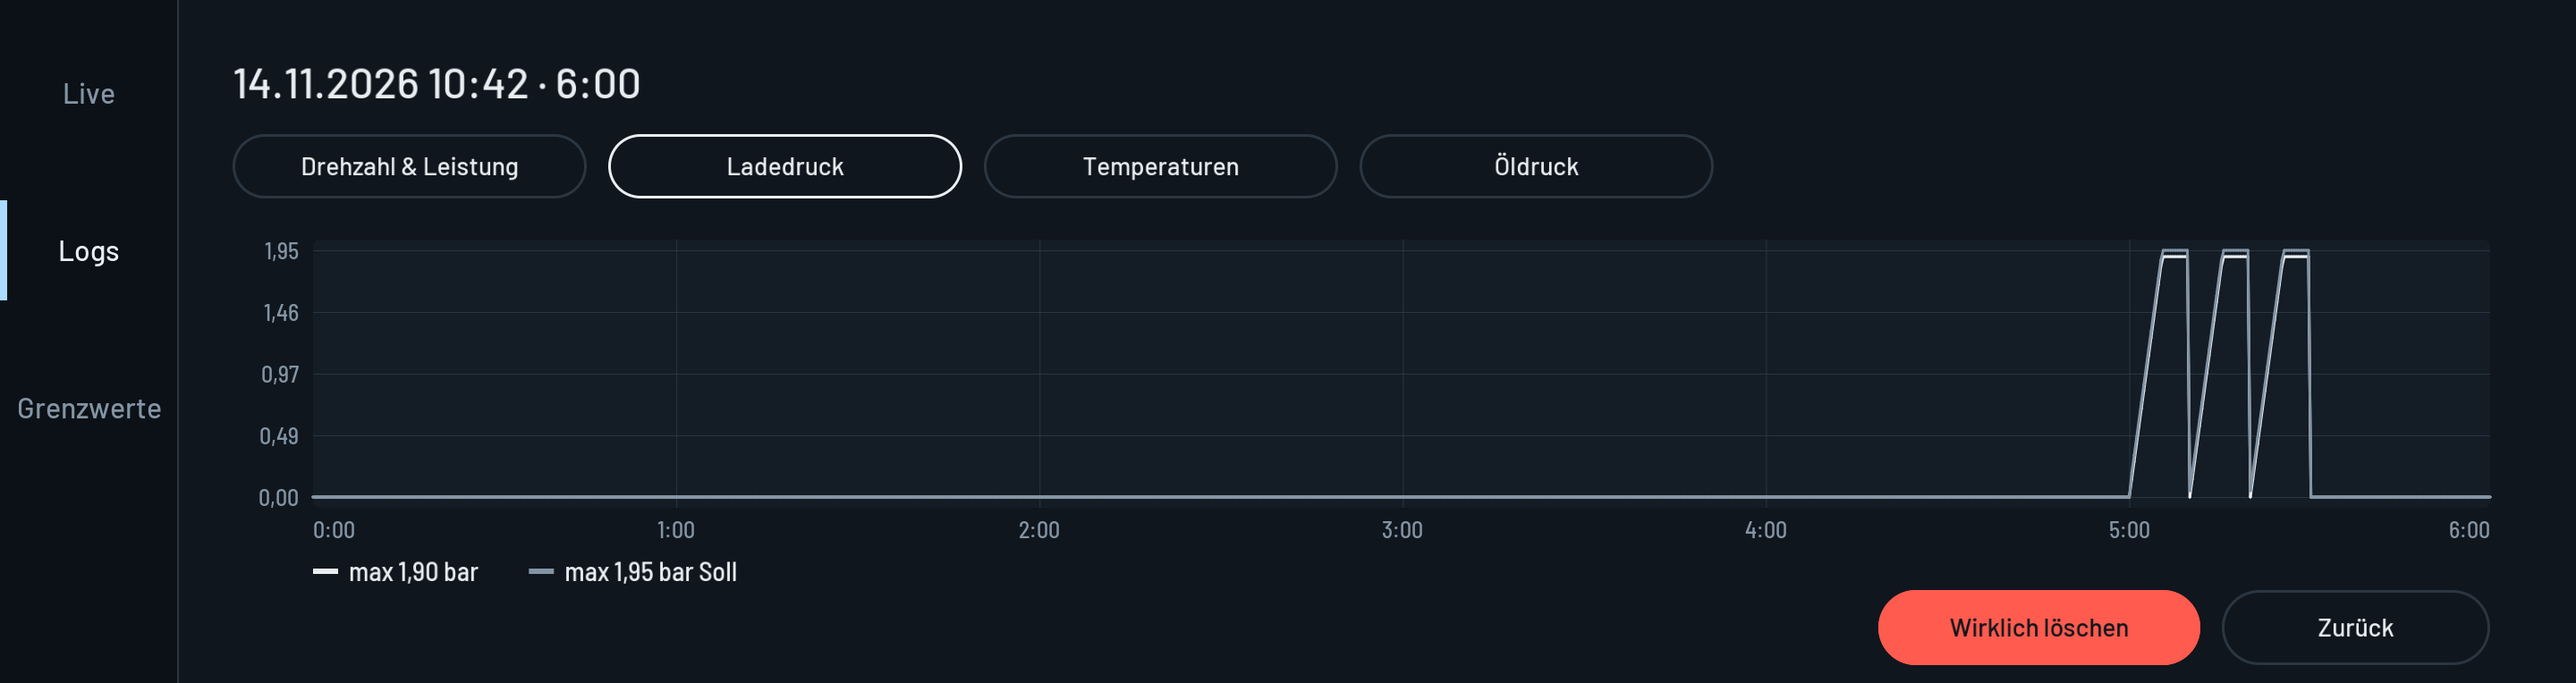
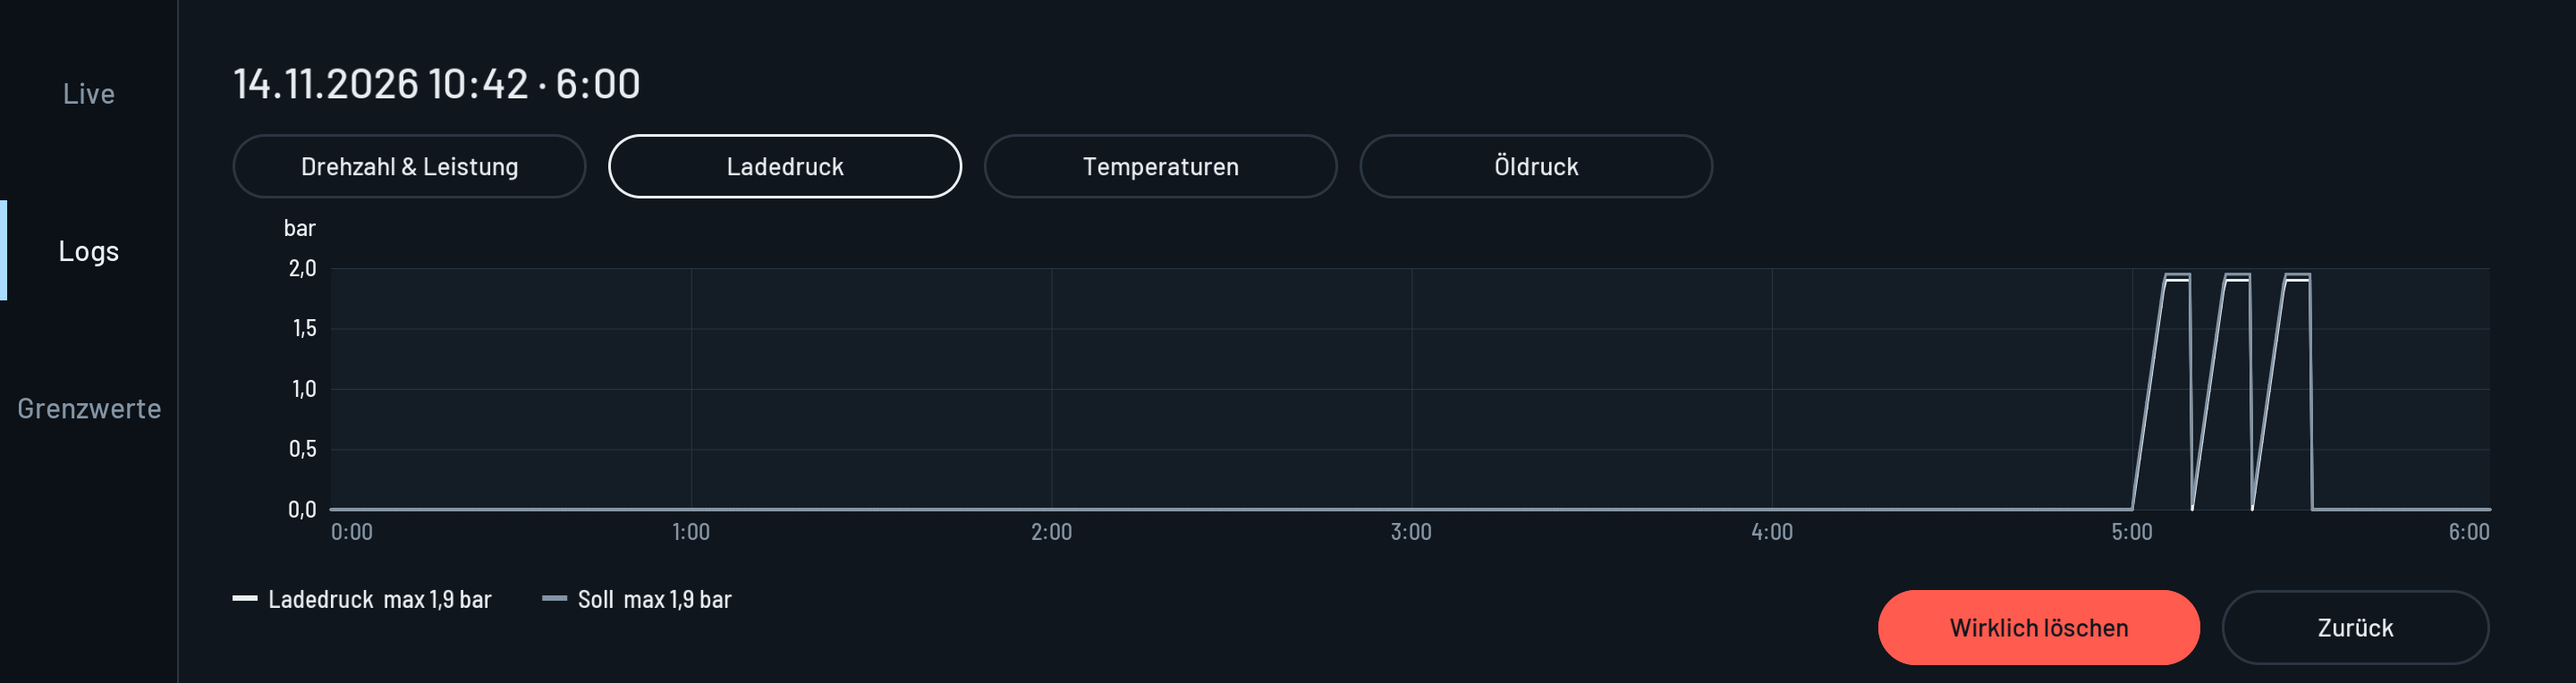
Motordaten 0.5.3: Log-Diagramme mit zwei beschrifteten Achsen
Linke Achse für die erste Kurve, rechte (in ihrer Farbe, mit Einheit)
für eine zweite; runde Skalen (z. B. 0–8.000 U/min, 0–100 PS) mit
Mindestumfang, damit kleine Werte nicht die ganze Höhe füllen. Legende
mit Namen, Spitze und Einheit.

diff --git a/apps/km_motordaten/src/dash.js b/apps/km_motordaten/src/dash.js
@@ -367,14 +367,38 @@ function logsPage(rec, ui, extra) {
     });
 }
 
-/* The curves of a recording's channel group: [field, colour, own scale max or null, decimals, unit]. */
+/* The charts of the log page, by channel group. Each has a left axis and maybe a right one; a curve
+ * belongs to one of them. An axis runs from 0 (or below, for a value that went below) to a round
+ * number at least its floor, so small values stay small instead of filling the chart.
+ *   axes: { left: { unit, d, floor }, right: { ... } }
+ *   curves: [field, colour, axis, legend] */
 const GROUPS = {
-    rpm: [['rpm', C.text, 7700, 0, 'U/min'], ['power', C.cold, null, 0, 'PS']],
-    boost: [['boost', C.text, null, 2, 'bar'], ['boostTarget', C.dim, null, 2, 'bar Soll']],
-    temps: [['oil', C.text, null, 0, '°C Öl'], ['coolant', C.ice, null, 0, '°C Kühlmittel'], ['charge', C.cold, null, 0, '°C Ladeluft'],
-        ['gearbox', C.dim, null, 0, '°C Getriebe']],
-    oil: [['oilPress', C.text, null, 1, 'bar'], ['rpm', C.dim, 7700, 0, 'U/min']]
+    rpm: { axes: { left: { unit: 'U/min', d: 0, floor: 8000, color: C.text }, right: { unit: 'PS', d: 0, floor: 100, color: C.cold } },
+        curves: [['rpm', C.text, 'left', 'Drehzahl'], ['power', C.cold, 'right', 'Leistung']] },
+    boost: { axes: { left: { unit: 'bar', d: 1, floor: 0.5, color: C.text } },
+        curves: [['boost', C.text, 'left', 'Ladedruck'], ['boostTarget', C.dim, 'left', 'Soll']] },
+    temps: { axes: { left: { unit: '°C', d: 0, floor: 100, color: C.text } },
+        curves: [['oil', C.text, 'left', 'Öl'], ['coolant', C.ice, 'left', 'Kühlmittel'], ['charge', C.cold, 'left', 'Ladeluft'],
+            ['gearbox', C.dim, 'left', 'Getriebe']] },
+    oil: { axes: { left: { unit: 'bar', d: 1, floor: 2, color: C.text }, right: { unit: 'U/min', d: 0, floor: 8000, color: C.dim } },
+        curves: [['oilPress', C.text, 'left', 'Öldruck'], ['rpm', C.dim, 'right', 'Drehzahl']] }
 };
+
+/* The smallest round number (1, 1.5, 2, 2.5, 3, 4, 5, 6, 8 x 10^n) at least v: its quarters stay round too. */
+function niceUp(v) {
+    if (!(v > 0)) {
+        return 1;
+    }
+    const p = Math.pow(10, Math.floor(Math.log10(v)));
+    for (const m of [1, 1.5, 2, 2.5, 3, 4, 5, 6, 8, 10]) {
+        if (m * p >= v - 1e-9) {
+            return m * p;
+        }
+    }
+    return 10 * p;
+}
+
+const axisText = (v, d) => (d ? de(v, d) : thousands(v));
 
 function logPage(rec, ui, extra) {
     const log = extra && extra.log;
@@ -384,62 +408,81 @@ function logPage(rec, ui, extra) {
         const on = t.id === `chan:${chan}`;
         button(rec, t, ui, { size: 28, primary: on });
     });
-    const box = { x: X0 + 90, y: 268, w: W - PAD - X0 - 90, h: 300 };
+    const group = GROUPS[chan];
+    const box = { x: X0 + 110, y: 300, w: W - PAD - X0 - 110 - (group.axes.right ? 120 : 0), h: 270 };
     rec.roundRect(box.x, box.y, box.w, box.h, 8, '#141C25');
     if (!log || !log.t.length) {
         rec.text('Keine Werte in dieser Aufzeichnung.', box.x + 40, box.y + 80, 34, C.dim, { font: 'label' });
         return;
     }
     const span = Math.max(1, log.t[log.t.length - 1]);
-    const group = GROUPS[chan];
-    const gridMax = (ys, own) => own || ys.reduce((m, y) => (isNum(y) ? Math.max(m, y) : m), 0);
-    // a shared scale for curves of one unit, else each its own
-    const shared = chan === 'boost' || chan === 'temps';
-    let sharedMax = 0;
-    let sharedMin = 0;
-    group.forEach((g) => (log.series[g[0]] || []).forEach((y) => {
-        if (isNum(y)) { sharedMax = Math.max(sharedMax, y); sharedMin = Math.min(sharedMin, y); }
-    }));
-    // grid: four lines, labelled in the first curve's scale; minutes along the time axis
-    const first = group[0];
-    const firstMax = first[2] || (shared ? sharedMax : gridMax(log.series[first[0]] || []));
-    const firstMin = shared ? sharedMin : 0;
+
+    // each axis: 0 (or the lowest value) to a round number covering its curves, at least its floor
+    const scale = {};
+    Object.keys(group.axes).forEach((name) => {
+        const ax = group.axes[name];
+        let hi = 0;
+        let lo = 0;
+        group.curves.filter((c) => c[2] === name).forEach((c) => (log.series[c[0]] || []).forEach((y) => {
+            if (isNum(y)) { hi = Math.max(hi, y); lo = Math.min(lo, y); }
+        }));
+        const top = niceUp(Math.max(hi, ax.floor));
+        const bottom = lo < 0 ? -niceUp(-lo) : 0;
+        scale[name] = { lo: bottom, hi: top };
+    });
+    const yOf = (name, v) => {
+        const sc = scale[name];
+        return box.y + box.h - (box.h) * clamp((v - sc.lo) / (sc.hi - sc.lo), 0, 1);
+    };
+
+    // grid and axis labels: four steps; each axis in its curve's colour, its unit above it
     for (let k = 0; k <= 4; k++) {
-        const gy = box.y + box.h - 12 - (box.h - 24) * k / 4;
+        const gy = box.y + box.h - box.h * k / 4;
         rec.fillRect(box.x, gy, box.w, 1, C.line);
-        const val = firstMin + (firstMax - firstMin) * k / 4;
-        rec.text(first[3] ? de(val, first[3]) : thousands(val), box.x - 16, gy + 10, 26, C.dim, { font: 'scale', align: 'right' });
+        Object.keys(group.axes).forEach((name) => {
+            const ax = group.axes[name];
+            const sc = scale[name];
+            const val = sc.lo + (sc.hi - sc.lo) * k / 4;
+            const right = name === 'right';
+            rec.text(axisText(val, ax.d), right ? box.x + box.w + 16 : box.x - 16, gy + 9, 26, ax.color,
+                { font: 'scale', align: right ? 'left' : 'right' });
+        });
     }
+    Object.keys(group.axes).forEach((name) => {
+        const ax = group.axes[name];
+        const right = name === 'right';
+        rec.text(ax.unit, right ? box.x + box.w + 16 : box.x - 16, box.y - 36, 26, ax.color,
+            { font: 'label', align: right ? 'left' : 'right' });
+    });
     const minute = 60000;
     const every = span > 20 * minute ? 5 * minute : span > 5 * minute ? minute : span > minute ? 15000 : 5000;
     for (let tm = every; tm < span; tm += every) {
         const gx = box.x + box.w * tm / span;
         rec.fillRect(gx, box.y, 1, box.h, C.line);
-        rec.text(duration(tm), gx, box.y + box.h + 34, 26, C.dim, { font: 'scale', align: 'center' });
-    }
-    let lx = box.x;
-    group.forEach((g) => {
-        const ys = log.series[g[0]] || [];
-        let max = g[2];
-        if (!max) {
-            max = shared ? sharedMax : ys.reduce((m, y) => (isNum(y) ? Math.max(m, y) : m), 0);
+        if (box.w * (span - tm) / span > 60) {
+            rec.text(duration(tm), gx, box.y + box.h + 34, 26, C.dim, { font: 'scale', align: 'center' });
         }
-        const min = shared ? sharedMin : 0;
-        const range = Math.max(1e-6, (max || 1) - min);
-        let seg = [];
-        const flush = () => { if (seg.length > 1) rec.polyline(seg, 3, g[1]); seg = []; };
-        ys.forEach((y, i) => {
-            if (!isNum(y)) { flush(); return; }
-            seg.push([box.x + box.w * log.t[i] / span, box.y + box.h - 12 - (box.h - 24) * clamp((y - min) / range, 0, 1)]);
-        });
-        flush();
-        const peak = ys.reduce((m, y) => (isNum(y) && (m === null || y > m) ? y : m), null);
-        const text = `max ${peak === null ? '–' : (g[3] ? de(peak, g[3]) : thousands(peak))} ${g[4]}`;
-        rec.fillRect(lx, 636, 28, 6, g[1]);
-        lx += 40 + rec.text(text, lx + 40, 650, 30, C.text, { font: 'scale' }) + 56;
-    });
+    }
     rec.text('0:00', box.x, box.y + box.h + 34, 26, C.dim, { font: 'scale' });
     rec.text(duration(span), box.x + box.w, box.y + box.h + 34, 26, C.dim, { font: 'scale', align: 'right' });
+
+    // the curves, broken where a value is missing; the legend names each with its peak and unit
+    let lx = X0;
+    group.curves.forEach((c) => {
+        const ys = log.series[c[0]] || [];
+        let seg = [];
+        const flush = () => { if (seg.length > 1) rec.polyline(seg, 3, c[1]); seg = []; };
+        ys.forEach((y, i) => {
+            if (!isNum(y)) { flush(); return; }
+            seg.push([box.x + box.w * log.t[i] / span, yOf(c[2], y)]);
+        });
+        flush();
+        const ax = group.axes[c[2]];
+        const peak = ys.reduce((m, y) => (isNum(y) && (m === null || y > m) ? y : m), null);
+        const text = `${c[3]}  max ${peak === null ? '–' : axisText(peak, ax.d === 0 ? 0 : Math.max(ax.d, 1))} ${ax.unit}`;
+        rec.fillRect(lx, 666, 28, 6, c[1]);
+        lx += 40 + rec.text(text, lx + 40, 680, 28, C.text, { font: 'scale' }) + 56;
+    });
 }
 
 function draw(rec, page, v, cfg, ui, extra) {
